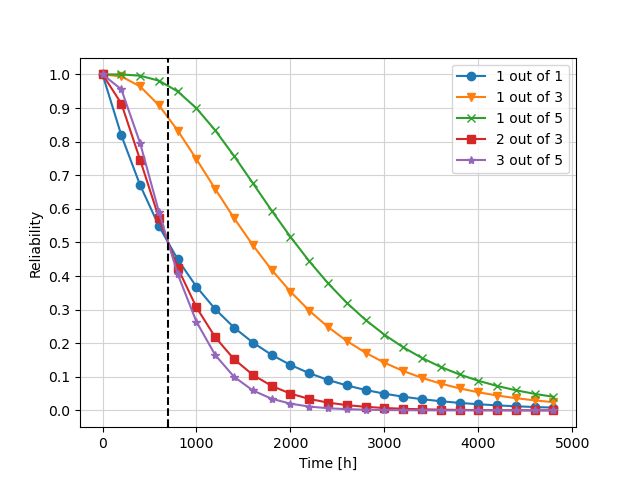
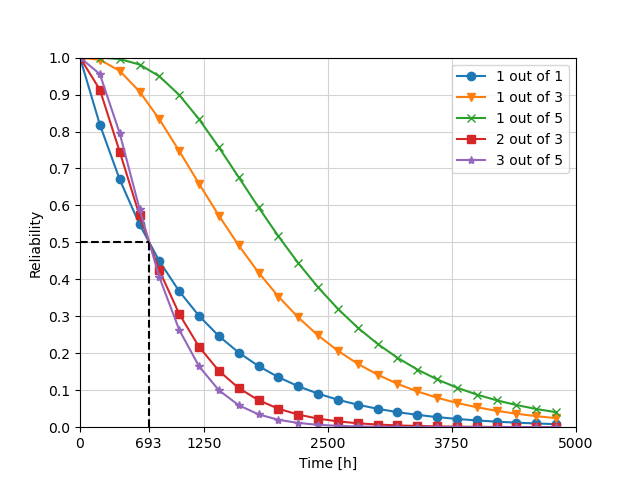
Limits added for 0.5 line

diff --git a/plots.py b/plots.py
@@ -4,19 +4,19 @@ def gen_y(f,l):
     return [f(y) for y in l]
 
 def create_reliability_plot():
-    x = np.arange(0, 5000, 200)
+    x = np.arange(0, MAX_TIME, TIME_STEP)
     plt.figure(1)
     plt.plot(x, gen_y(reliability(1,1),x),label='1 out of 1',marker="o")
     plt.plot(x, gen_y(reliability(1,3),x),label='1 out of 3',marker="v") 
     plt.plot(x, gen_y(reliability(1,5),x),label='1 out of 5',marker="x") 
     plt.plot(x, gen_y(reliability(2,3),x),label='2 out of 3',marker="s") 
     plt.plot(x, gen_y(reliability(3,5),x),label='3 out of 5',marker="*")
-    #plt.plot(x, gen_y(reliability(3,5),x),label='3 out of 5',marker="*")
-    #plt.plot(x, gen_y(reliability(4,7),x),label='3 out of 5',marker="*")
-    #plt.plot(x, gen_y(reliability(5,9),x),label='3 out of 5',marker="*")
-    #plt.plot(x, gen_y(reliability(6,11),x),label='7 out of 15',marker="*")
-    plt.axvline(x=math.log(2)/FAILURE_RATE, color='k', linestyle='--')
-    plt.yticks(np.linspace(0,1,11))
+    plt.xlim([0,MAX_TIME])
+    plt.ylim([0,1])
+    plt.axvline(x=math.log(2)/FAILURE_RATE, ymax=0.5, color='k', linestyle='--')
+    plt.axhline(y=0.5, xmax=(math.log(2)/FAILURE_RATE)/MAX_TIME, color='k', linestyle='--')
+    plt.xticks(list(np.linspace(0,MAX_TIME,X_RELIABILITY_TICKS)) + [math.log(2)/FAILURE_RATE])
+    plt.yticks(np.linspace(0,1,Y_RELIABILITY_TICKS))
     plt.grid(color='lightgrey')
     plt.ylabel("Reliability")
     plt.xlabel("Time [h]")
@@ -29,8 +29,8 @@ def create_availability_plot(benchmark_m=2, benchmark_n=3):
     plt.figure(2)
     plt.plot(x, gen_y(log_availability_iterative(lambda n:1),x),label='1 out of n',marker="o")
     plt.plot(x, gen_y(log_availability_iterative(lambda n:math.floor(n/2)+1),x),label='n/2+1 out of n',marker="v")
-    plt.plot(x, gen_y(log_availability(find_linear(benchmark_m=benchmark_m,benchmark_n=benchmark_n)),x),label=f'{benchmark_m} out of {benchmark_n} level',marker="x") #Approximately n-log(n)
-    plt.xlim([np.min(x)-1,np.max(x)+1])
+    plt.plot(x, gen_y(log_availability(find_linear(benchmark_m=benchmark_m,benchmark_n=benchmark_n)),x),label=f'{benchmark_m} out of {benchmark_n} level',marker="x")
+    plt.xlim([0,np.max(x)+1])
     plt.ylim(bottom=0)
     plt.grid(color='lightgrey')
     plt.ylabel("Steady state availability [nines]")

diff --git a/functions.py b/functions.py
@@ -12,6 +12,10 @@ MAXN=100
 STEP=5
 FAILURE_RATE=0.001
 REPAIR_RATE=1.0
+MAX_TIME=5000
+TIME_STEP=200
+Y_RELIABILITY_TICKS=11
+X_RELIABILITY_TICKS=5
 
 def nck(n, k): #Fast C implementation of n choose k
     r = min(k, n-k)
